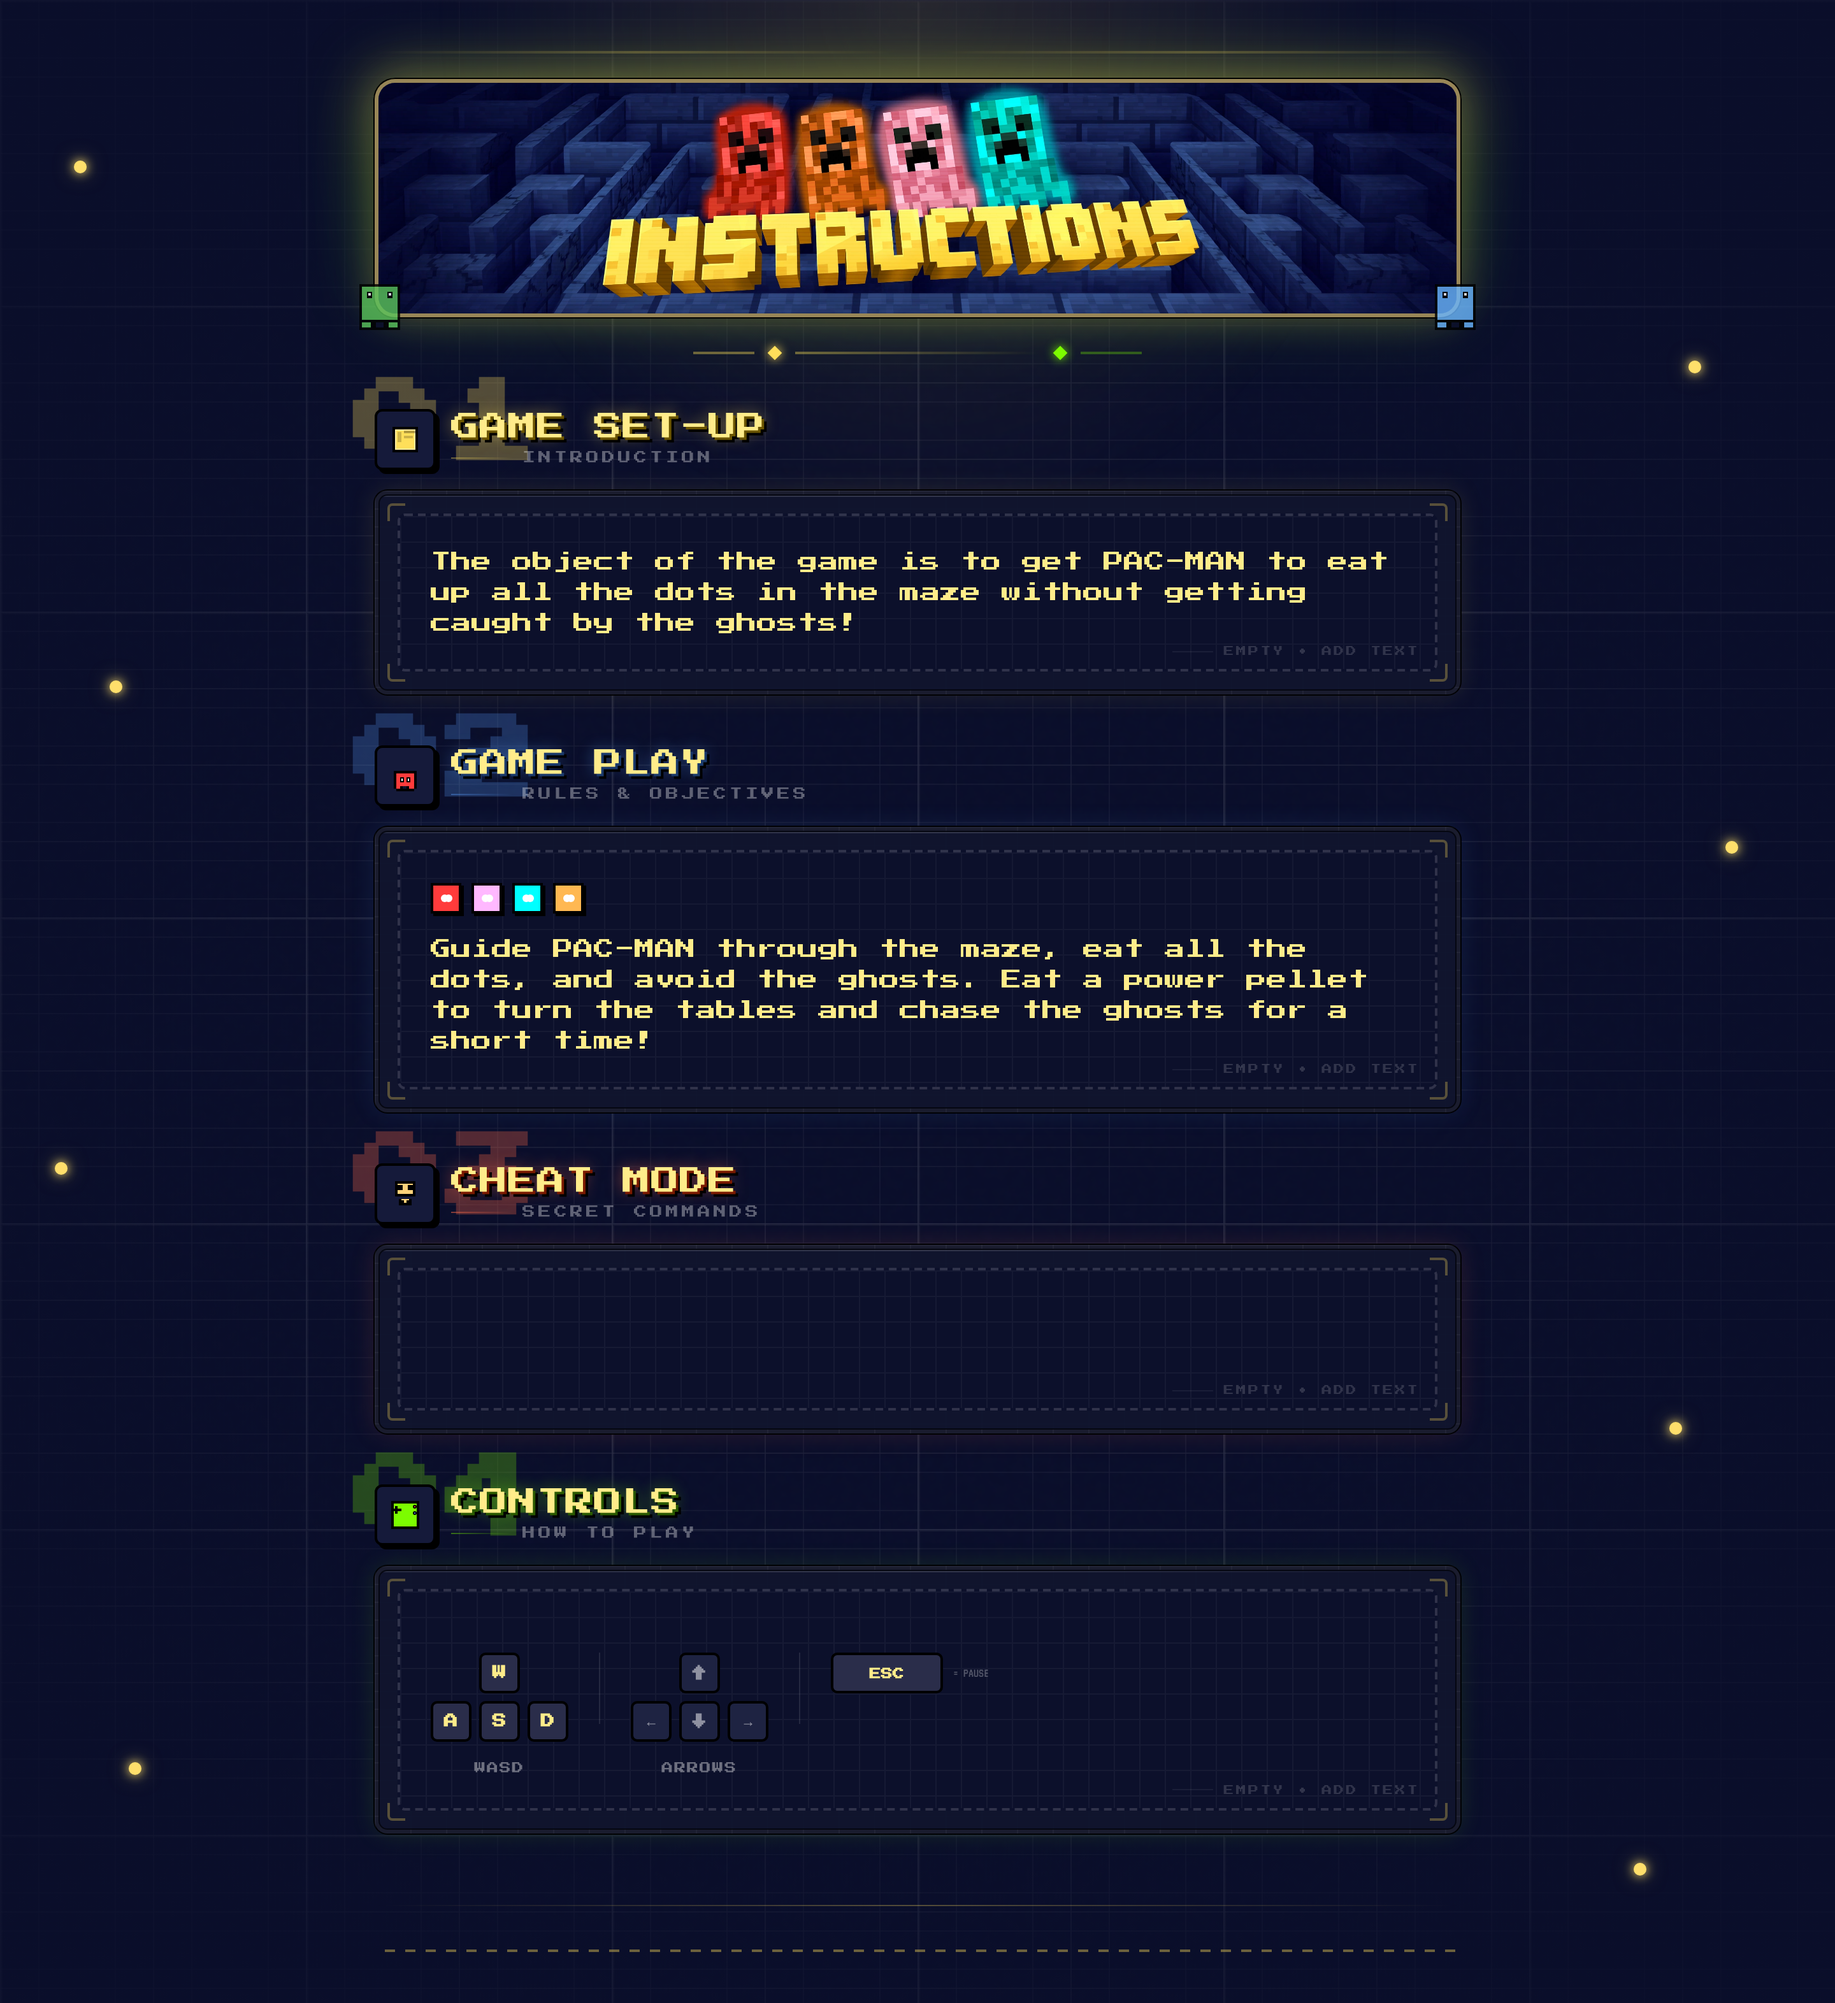
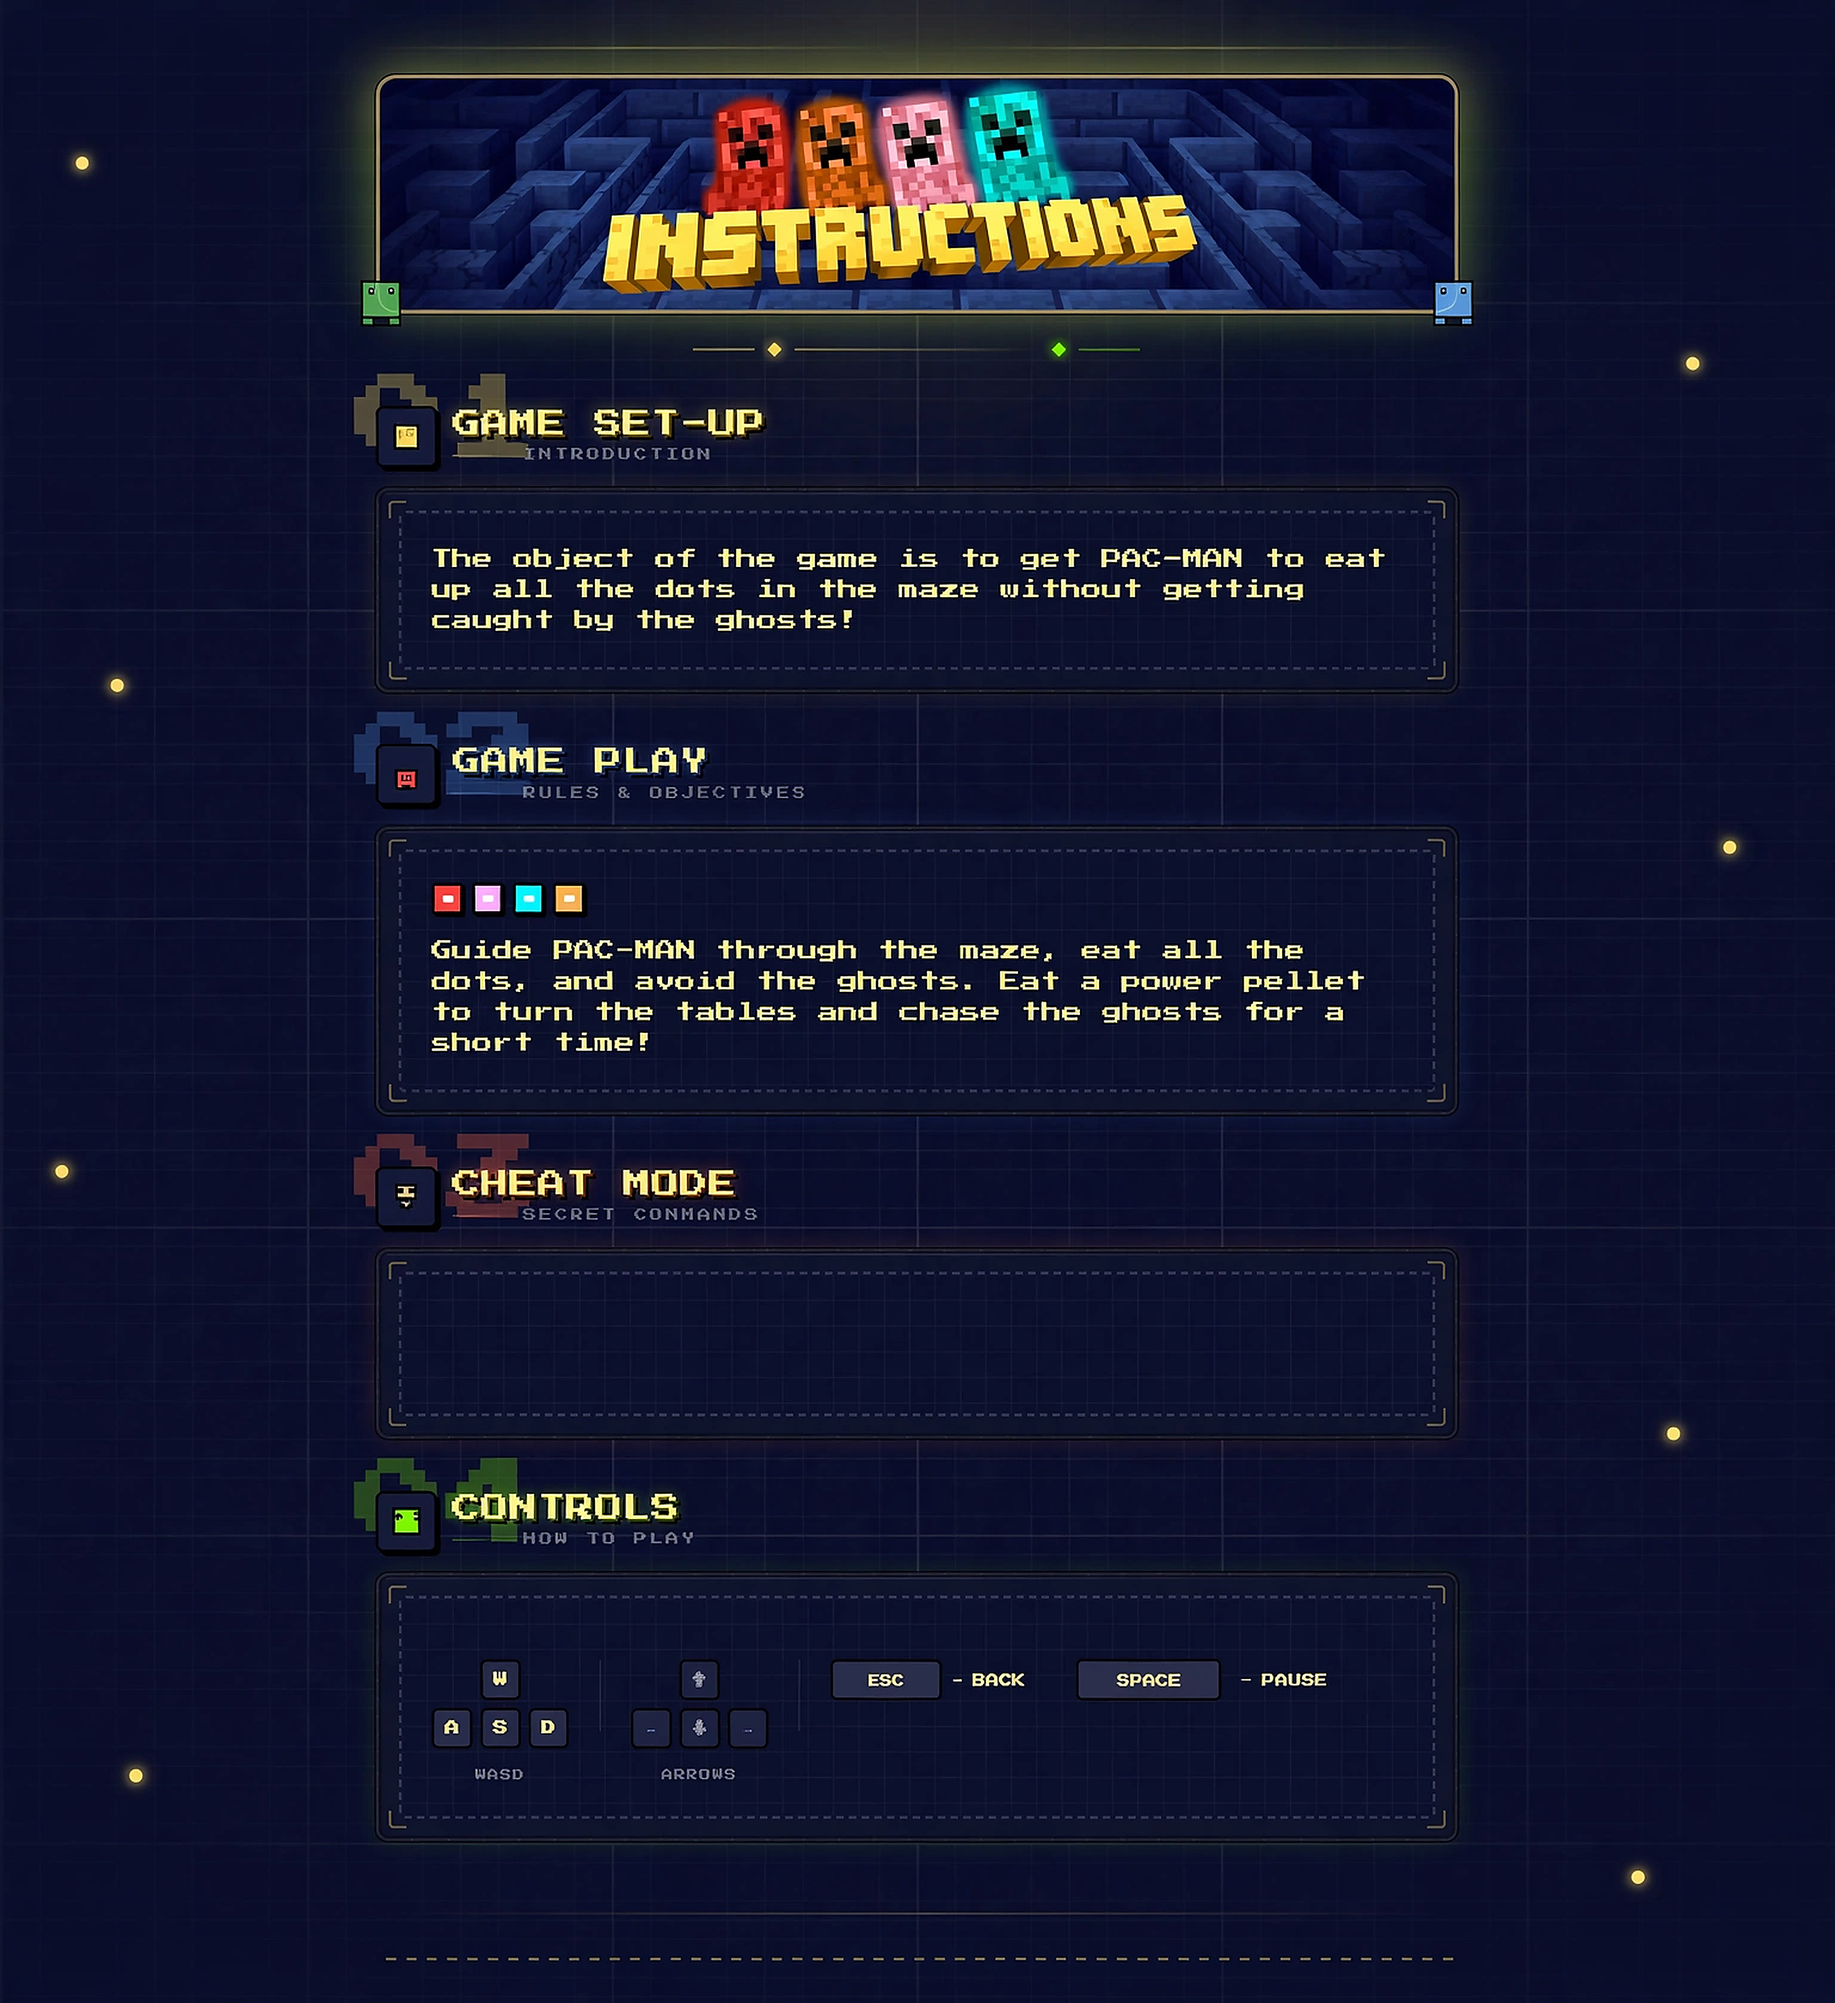
pacman

diff --git a/src/ui/instructons.py b/src/ui/instructons.py
@@ -2,57 +2,47 @@ from src.utils.global_data import GameState
 from src.utils import global_data
 import pygame
 
-#  old code 
-# class Instructions:
-#     def __init__(self, canvas) -> None:
-#         self.canvas = canvas
-#         self.img = pygame.image.load('assets/images/Instructions.png')
-#         self.canvas_w, self.canvas_h = self.canvas.get_size()
-#         self.img_w, self.img_h = self.img.get_size()
-#         self.scroll_y = 0
-
-#     def render(self):
-#         y0 = 0
-#         y1 = self.img_h
-#         scroll_speed = 3
-
-#         y0 =- scroll_speed
-#         y1 =- scroll_speed
-
-#         if y0 <= -self.canvas_h:
-#             y0 = self.img_h
-#         if y1 <= -self.canvas_h:
-#             y1 = self.img_h
-
-#         x = (self.canvas_w - self.img_w) // 2
-#         self.canvas.blit(self.img, (x, y0))
-#         self.canvas.blit(self.img, (x, y1))
-
 
 class Instructions:
-    def __init__(self, canvas) -> None:
+    def __init__(self, canvas, clock) -> None:
         self.canvas = canvas
+        self.clock = clock
         self.img = pygame.image.load('assets/images/Instructions.png')
         self.canvas_w, self.canvas_h = self.canvas.get_size()
         self.img_w, self.img_h = self.img.get_size()
-        self.scroll_y = 0.0          # CHANGED — this now actually gets used
-        self.scroll_speed = 3        # CHANGED — moved out of render(), no longer reset every frame
+        self.header_height: int = 570
+        self.scroll_y: float = 0.0
+        self.scroll_speed: int = 15
+        self.paused: bool = False
 
     def render(self):
-        # CHANGED — advance persistent state instead of recomputing from scratch
-        self.scroll_y -= self.scroll_speed
-
-        # Wrap back to the start once the image has fully scrolled past.
-        if self.scroll_y <= -self.img_h: # -3 < -100 ===> -102 <= -100
-            self.scroll_y += self.img_h
-
+        dt = self.clock.tick(60) / 100
         x = (self.canvas_w - self.img_w) // 2
 
-        # Draw two copies stacked vertically so there's no gap while wrapping.
-        self.canvas.blit(self.img, (x, self.scroll_y + self.img_h))
-        self.canvas.blit(self.img, (x, self.scroll_y))
+        # Header Erea
+        header = pygame.Rect(0, 0, self.img_w, self.header_height)
+        self.canvas.blit(self.img, (x, 0), header)
 
+        # Scrolling area
+        if not self.paused:
+            self.scroll_y -= self.scroll_speed * dt
+        if self.scroll_y <= -self.img_h:
+            self.scroll_y += self.img_h
+
+        scroll_area = pygame.Rect(
+            0, self.header_height,
+            self.img_w,
+            self.img_h - self.header_height
+        )
+        self.canvas.set_clip(scroll_area)
+        self.canvas.blit(self.img, (x, self.scroll_y + (self.img_h - self.header_height)))
+        self.canvas.blit(self.img, (x, self.scroll_y))
+        self.canvas.set_clip(None)
 
     def treat_input(self, key):
         if key == pygame.K_ESCAPE:
+            self.scroll_y = 0.0
+            self.paused = False
             global_data.GAME_STATE = GameState.MENU
+        if key == pygame.K_SPACE:
+            self.paused = not self.paused

diff --git a/src/game.py b/src/game.py
@@ -8,6 +8,7 @@ import pygame
 class Game:
     def __init__(self):
         pygame.init()
+        self.clock = pygame.time.Clock()
 
         info = pygame.display.Info()
         self.current_w, self.current_h = (
@@ -18,15 +19,12 @@ class Game:
 
         self.running = True
         self.main_menu = Main_menu(self.canvas)
-        self.instructions = Instructions(self.canvas)
+        self.instructions = Instructions(self.canvas, self.clock)
 
     def get_input(self) -> None:
         for event in pygame.event.get():
             if event.type == pygame.QUIT:
                 self.running = False
-            # ADDED — without this, self.current_w/current_h stay frozen at
-            # launch-time values forever, so dragging the window to resize
-            # it would make the letterbox math below stale/wrong.
             if event.type == pygame.VIDEORESIZE:
                 self.current_w, self.current_h = event.w, event.h
             if event.type == pygame.KEYDOWN:
@@ -45,11 +43,6 @@ class Game:
         if global_data.GAME_STATE == GameState.INSTRUCTIONS:
             self.instructions.render()
 
-        # CHANGED — was a non-uniform stretch to (current_w, current_h),
-        # which distorts the aspect ratio on any window that isn't
-        # exactly VIRTUAL_W:VIRTUAL_H. This now scales the canvas as one
-        # rigid block, preserving its aspect ratio, and centers it with
-        # black bars filling any leftover space (letterboxing).
         scale = min(self.current_w / VIRTUAL_W, self.current_h / VIRTUAL_H)
         scaled_w, scaled_h = int(VIRTUAL_W * scale), int(VIRTUAL_H * scale)
         self.scaled_canvas = pygame.transform.smoothscale(
@@ -59,7 +52,7 @@ class Game:
         offset_x = (self.current_w - scaled_w) // 2
         offset_y = (self.current_h - scaled_h) // 2
 
-        self.screen.fill((0, 0, 0))  # ADDED — paints the letterbox bars
+        self.screen.fill((0, 0, 0))
         self.screen.blit(self.scaled_canvas, (offset_x, offset_y))
 
     def run(self):
